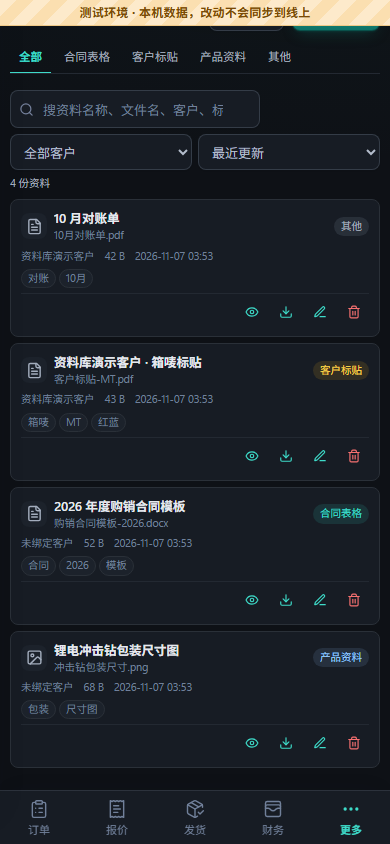
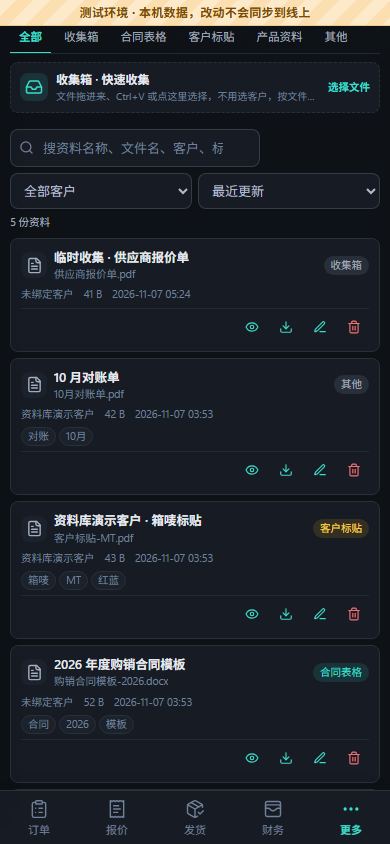
feat(library): 收集箱快捷收集
不选客户/分类即可拖拽、粘贴或选择文件直接保存，按文件名搜索；重复文件跳过，超 20MB 拒绝。

diff --git a/src/client/pages/LibraryPage.tsx b/src/client/pages/LibraryPage.tsx
@@ -6,6 +6,7 @@ import {
   File as FileIcon,
   FileText,
   Image as ImageIcon,
+  Inbox,
   Plus,
   RotateCcw,
   Trash2,
@@ -345,6 +346,79 @@ export default function LibraryPage({ customers, onNotify }: LibraryPageProps) {
   const [preview, setPreview] = useState<LibraryFile>();
   const [downloadingId, setDownloadingId] = useState<number>();
   const [busyId, setBusyId] = useState<number>();
+  const [collecting, setCollecting] = useState(false);
+  const [collectProgress, setCollectProgress] = useState('');
+  const collectInputRef = useRef<HTMLInputElement>(null);
+  const collectingRef = useRef(false);
+
+  /** 收集箱：不选客户、不选分类，按文件名直接入箱；重复文件跳过。 */
+  const collectFiles = async (incoming: File[]) => {
+    if (collectingRef.current || !incoming.length) return;
+    const accepted = incoming.filter((file) => file.size <= MAX_FILE_SIZE);
+    const tooLarge = incoming.length - accepted.length;
+    if (!accepted.length) {
+      onNotify?.(`文件超过 20MB，没有收集`, 'error');
+      return;
+    }
+    collectingRef.current = true;
+    setCollecting(true);
+    let saved = 0;
+    let skipped = 0;
+    let failed = 0;
+    try {
+      for (let index = 0; index < accepted.length; index += 1) {
+        const file = accepted[index];
+        setCollectProgress(`${index + 1}/${accepted.length}`);
+        try {
+          await uploadLibraryFile({
+            file,
+            title: file.name.replace(/\.[^.]+$/, '') || file.name,
+            category: 'inbox',
+            customerId: null,
+            tags: [],
+            note: '',
+          });
+          saved += 1;
+        } catch (error) {
+          if ((error as { code?: string }).code === 'DUPLICATE_FILE') skipped += 1;
+          else failed += 1;
+        }
+      }
+    } finally {
+      collectingRef.current = false;
+      setCollecting(false);
+      setCollectProgress('');
+    }
+    if (saved > 0) {
+      setQuery('');
+      setCategory('inbox');
+      setRefreshKey((key) => key + 1);
+      onNotify?.(`已收集 ${saved} 个文件${skipped ? `，${skipped} 个已存在` : ''}${tooLarge ? `，${tooLarge} 个超过 20MB` : ''}${failed ? `，${failed} 个失败` : ''}`, failed ? 'error' : 'success');
+    } else if (skipped) {
+      onNotify?.('这些文件已经在资料库里了', 'info');
+    } else if (failed || tooLarge) {
+      onNotify?.('文件没有保存成功，请检查后重试', 'error');
+    }
+  };
+
+  const { dragging: collectDragging, handlers: collectDropHandlers } = useFileDrop((incoming) => { void collectFiles(incoming); });
+  const collectFilesRef = useRef(collectFiles);
+  collectFilesRef.current = collectFiles;
+
+  // 不点收集箱也能直接 Ctrl+V：焦点在输入框/文本域或弹窗里时不抢粘贴。
+  useEffect(() => {
+    const onPaste = (event: ClipboardEvent) => {
+      const target = event.target as HTMLElement | null;
+      if (target?.closest('input, textarea, select, [contenteditable="true"]')) return;
+      if (document.querySelector('.modal-panel')) return;
+      const files = Array.from(event.clipboardData?.files ?? []);
+      if (!files.length) return;
+      event.preventDefault();
+      void collectFilesRef.current(files);
+    };
+    document.addEventListener('paste', onPaste);
+    return () => document.removeEventListener('paste', onPaste);
+  }, []);
 
   const customerOptions = useMemo(
     () => [...customers].sort((a, b) => a.name.localeCompare(b.name, 'zh-CN')),
@@ -483,6 +557,42 @@ export default function LibraryPage({ customers, onNotify }: LibraryPageProps) {
       <button className={`library-tab${category === 'all' ? ' is-active' : ''}`} type="button" role="tab" aria-selected={category === 'all'} onClick={() => setCategory('all')}>全部</button>
       {LIBRARY_CATEGORIES.map((item) => <button key={item} className={`library-tab${category === item ? ' is-active' : ''}`} type="button" role="tab" aria-selected={category === item} onClick={() => setCategory(item)}>{LIBRARY_CATEGORY_LABELS[item]}</button>)}
     </div>
+
+    {!trash && <div
+      className={`library-inbox-bar${collectDragging ? ' is-dragging' : ''}${collecting ? ' is-busy' : ''}`}
+      role="button"
+      tabIndex={0}
+      onClick={() => { if (!collecting) collectInputRef.current?.click(); }}
+      onKeyDown={(event) => { if (!collecting && (event.key === 'Enter' || event.key === ' ')) { event.preventDefault(); collectInputRef.current?.click(); } }}
+      onPaste={(event) => {
+        const files = Array.from(event.clipboardData?.files ?? []);
+        if (!files.length) return;
+        event.preventDefault();
+        void collectFiles(files);
+      }}
+      {...collectDropHandlers}
+    >
+      <span className="library-inbox-icon"><Inbox size={18} /></span>
+      <div className="library-inbox-copy">
+        <strong>收集箱 · 快速收集</strong>
+        <span>文件拖进来、Ctrl+V 或点这里选择，不用选客户，按文件名自动保存</span>
+      </div>
+      <span className="library-inbox-action">{collecting ? `收集 ${collectProgress}` : '选择文件'}</span>
+      <input
+        ref={collectInputRef}
+        type="file"
+        multiple
+        accept={LIBRARY_ACCEPT}
+        hidden
+        aria-label="快速收集文件"
+        onClick={(event) => event.stopPropagation()}
+        onChange={(event) => {
+          const selected = Array.from(event.target.files ?? []);
+          event.target.value = '';
+          void collectFiles(selected);
+        }}
+      />
+    </div>}
 
     <section className="table-panel library-panel">
       <div className="page-toolbar library-toolbar">

diff --git a/src/client/styles/erp.css b/src/client/styles/erp.css
@@ -3032,3 +3032,33 @@
   .library-page .library-table th:nth-child(7) { width: 128px; }
   .library-page .library-table .library-actions-cell .row-actions { gap: 2px; }
 }
+
+/* 收集箱：不选客户/分类，文件直接快速入箱 */
+.library-inbox-bar {
+  display: flex;
+  align-items: center;
+  gap: 10px;
+  padding: 9px 12px;
+  border: 1px dashed var(--erp-border);
+  border-radius: var(--erp-radius-surface);
+  background: var(--erp-surface);
+  color: var(--erp-text-2);
+  cursor: pointer;
+}
+.library-inbox-bar:hover,
+.library-inbox-bar.is-dragging { border-color: var(--color-accent); background: var(--color-accent-soft); }
+.library-inbox-bar.is-busy { cursor: progress; opacity: .75; }
+.library-inbox-icon { display: inline-grid; flex: 0 0 32px; width: 32px; height: 32px; place-items: center; border-radius: var(--radius-ui); background: var(--color-accent-soft); color: var(--color-accent); }
+.library-inbox-copy { display: grid; flex: 1; gap: 1px; min-width: 0; }
+.library-inbox-copy strong { color: var(--erp-text); font-size: 12.5px; font-weight: 600; }
+.library-inbox-copy span { overflow: hidden; color: var(--erp-muted); font-size: 10.5px; text-overflow: ellipsis; white-space: nowrap; }
+.library-inbox-action { flex: none; color: var(--color-accent); font-size: 11.5px; font-weight: 600; white-space: nowrap; }
+.library-category.is-inbox { background: var(--color-neutral-pill); color: var(--erp-text-2); }
+
+@media (max-width: 900px) {
+  .library-inbox-bar { gap: 8px; padding: 8px 9px; }
+  .library-inbox-icon { flex-basis: 28px; width: 28px; height: 28px; }
+  .library-inbox-copy strong { font-size: 12px; }
+  .library-inbox-copy span { font-size: 10px; }
+  .library-inbox-action { font-size: 10.5px; }
+}

diff --git a/src/shared/library.ts b/src/shared/library.ts
@@ -1,8 +1,9 @@
 /** 资料库分类与展示文案，前后端共用。 */
-export const LIBRARY_CATEGORIES = ['contract', 'label', 'product', 'other'] as const;
+export const LIBRARY_CATEGORIES = ['inbox', 'contract', 'label', 'product', 'other'] as const;
 export type LibraryCategory = (typeof LIBRARY_CATEGORIES)[number];
 
 export const LIBRARY_CATEGORY_LABELS: Record<LibraryCategory, string> = {
+  inbox: '收集箱',
   contract: '合同表格',
   label: '客户标贴',
   product: '产品资料',

diff --git a/资料库模块-改造需求.md b/资料库模块-改造需求.md
@@ -1,6 +1,6 @@
 # 资料库模块 — 改造需求
 
-> 状态：**v1.1（已上线，2026-11-07，commit 2cd2bdb，schema 39）**
+> 状态：**v1.2（收集箱优化，本地待验收；v1.1 已于 2026-11-07 上线，commit 2cd2bdb）**
 > 日期：2026-11-06
 > 已确认：只做独立资料库；固定四类 + 标签；客户标贴必须选客户；删除进回收站 30 天可恢复。
 > 目标：给合同表格、客户标贴、产品资料等常用文件一个统一存放、快速查找的位置。
@@ -31,7 +31,7 @@
 
 - 侧边栏「资料」分组新增「**资料库**」。
 - 页头：面包屑 + 标题「资料库」+ 说明 + 右侧「上传资料」。
-- 分类页签：**全部 / 合同表格 / 客户标贴 / 产品资料 / 其他**。
+- 分类页签：**全部 / 收集箱 / 合同表格 / 客户标贴 / 产品资料 / 其他**。
 - 工具条：
   - 搜索：标题、原文件名、客户名、标签。
   - 客户筛选（可选“全部客户”）。
@@ -42,7 +42,14 @@
 - 操作：**预览 / 下载 / 编辑信息 / 删除**。
 - 空状态：说明可以上传合同、标贴、产品资料，并给上传入口。
 
-### 3.2 上传与编辑
+### 3.2 收集箱（快速保存，v1.2）
+
+- 资料库顶部固定一条「收集箱 · 快速收集」：文件拖进来、Ctrl+V 或点这里选择，**不用选客户、不用选分类**。
+- 文件按原文件名自动保存为「收集箱」分类，标题去掉扩展名；之后直接按名称搜索。
+- 同内容文件自动跳过，不重复占空间；超过 20MB 的文件明确提示。
+- 收集完自动切到「收集箱」页签，后续可在编辑里补客户、分类和标签。
+
+### 3.3 上传与编辑
 
 - 上传弹窗支持：多选、拖拽、Ctrl+V 粘贴。
 - 单文件上限沿用现有附件上限（20MB）；超过时明确提示。
@@ -140,7 +147,7 @@
 ## 九、已确认的决定
 
 1. 一期只做独立资料库，不做订单/客户产品的「从资料库选择」。
-2. 分类固定四类：合同表格 / 客户标贴 / 产品资料 / 其他；细分用标签。
+2. 分类为收集箱 + 合同表格 / 客户标贴 / 产品资料 / 其他；收集箱用于快速暂存，细分用标签。
 3. 客户标贴必须绑定客户；合同表格和其他资料可不绑定。
 4. 删除进回收站，30 天内可恢复；回收站里可手动彻底删除。
 5. 已有客户产品附件、订单合同不自动汇入；二期再评估。
@@ -155,5 +162,6 @@
 - 数据：`library_files` 表（schema 39），文件落在 `data/files/library-files/`，受登录保护并纳入现有备份。
 - 截图：[桌面](docs/ui-redesign/library-desktop.png) / [平板](docs/ui-redesign/library-tablet.png) / [手机](docs/ui-redesign/library-mobile.png) / [上传弹窗](docs/ui-redesign/library-upload-desktop.png) / [手机上传](docs/ui-redesign/library-upload-mobile.png)；深色：[桌面](docs/ui-redesign/library-dark-desktop.png) / [手机](docs/ui-redesign/library-dark-mobile.png)
 - 验证：单测 **627** 通过；全量 e2e **145** 通过（含资料库上传→搜索→编辑→回收站恢复→彻底删除）。
+- **v1.2 收集箱**：资料库顶部新增快速收集条，拖拽/Ctrl+V/选择文件直接存入「收集箱」，不选客户、不选分类；同内容自动跳过。截图：[桌面](docs/ui-redesign/library-inbox-desktop.png) / [手机](docs/ui-redesign/library-inbox-mobile.png)。
 
 - 上线验证：`/health` 为 `2cd2bdb` / production，容器 healthy；线上库 schema 39，`library_files` 表已创建，部署前快照已生成。
